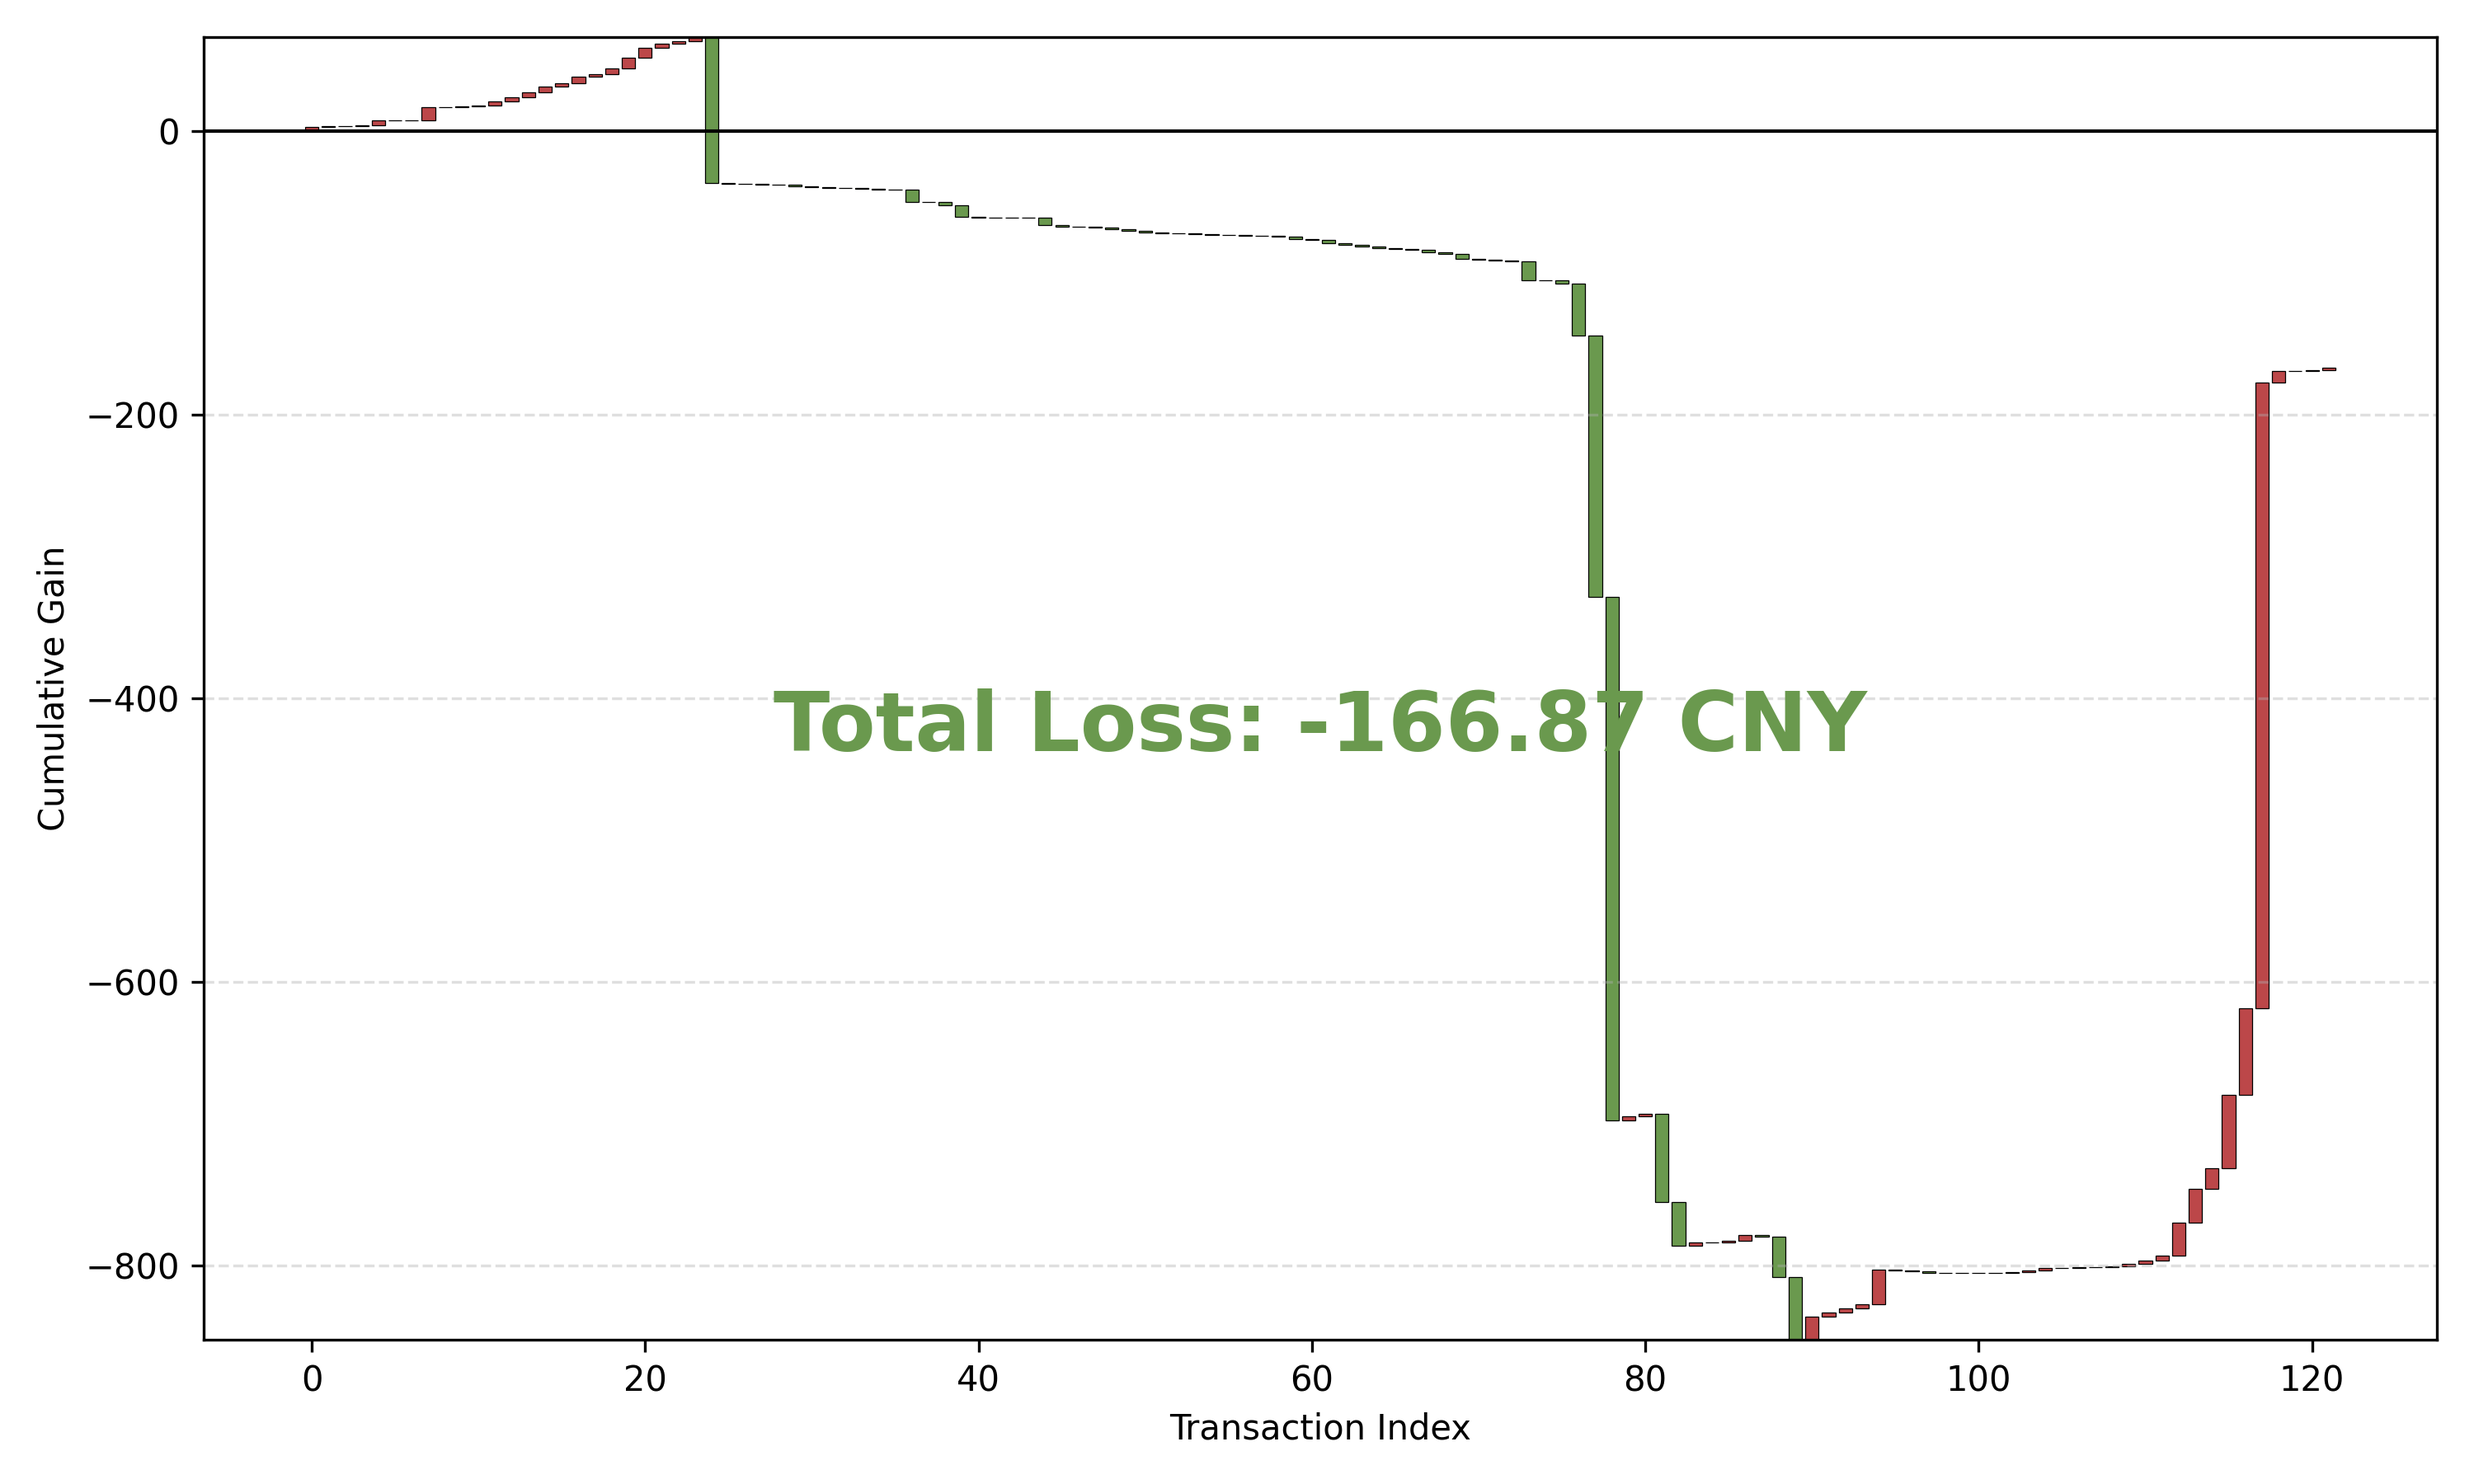
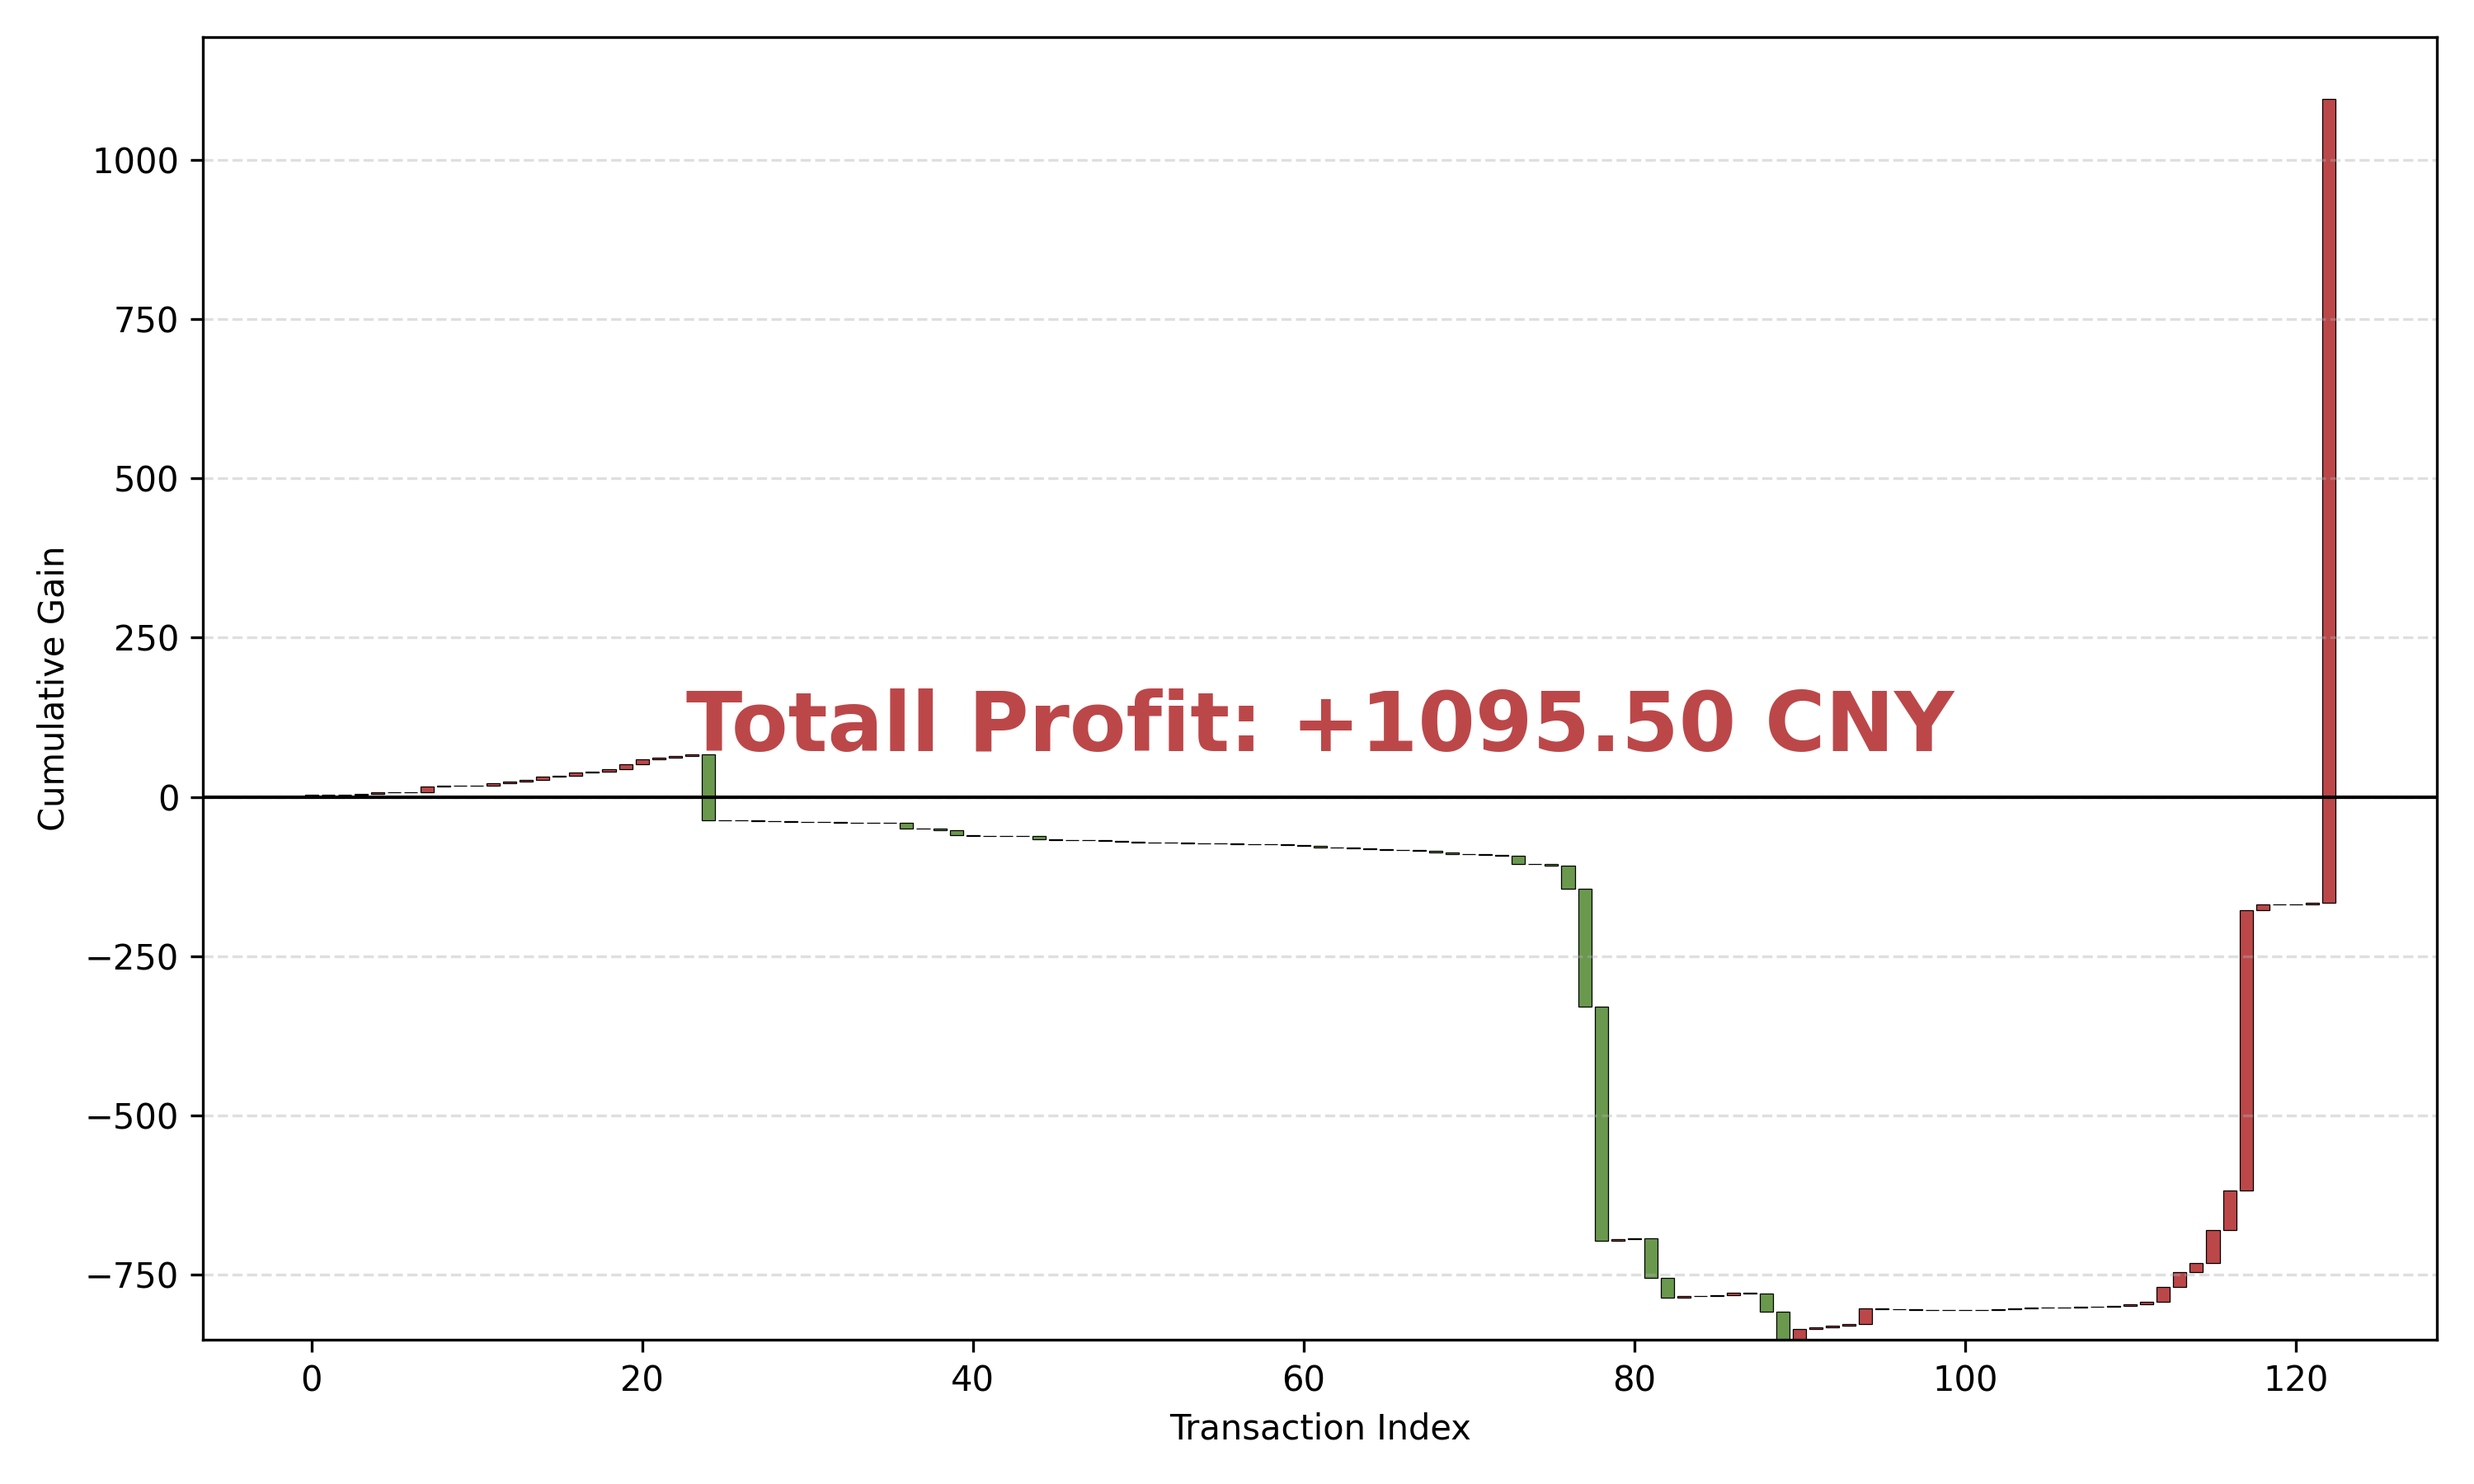
I sold my last M4A1-S | Solitude

diff --git a/README.md b/README.md
@@ -1,5 +1,5 @@
 # My CS2 Profits
 
-Total Loss: -166.87 CNY
+Total Profit: +1095.50 CNY
 
 ![](./waterfall.png)
